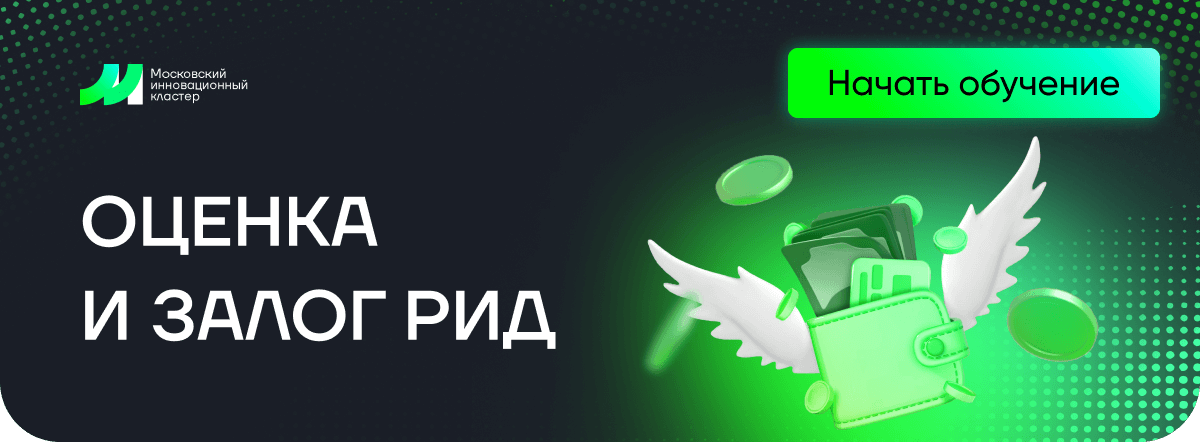
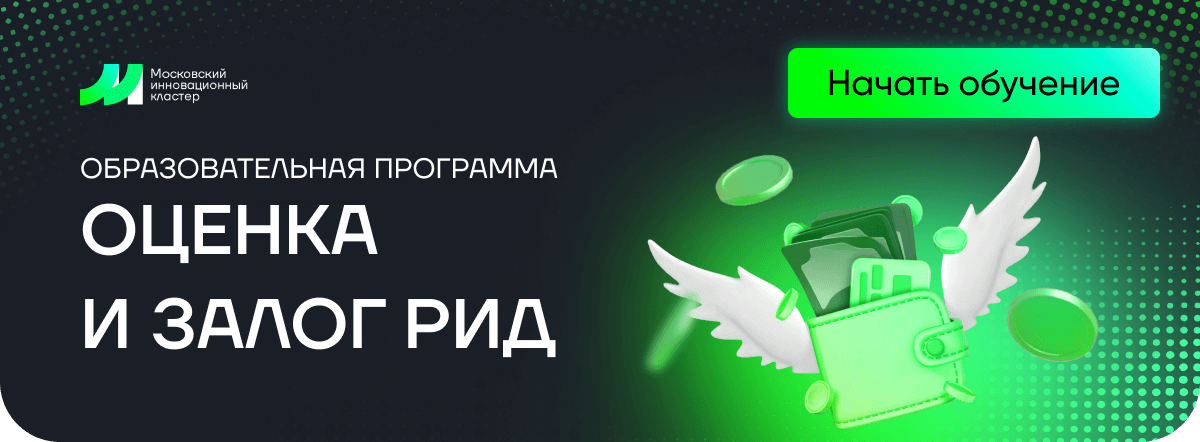
change mik-160

Changed region(s): [[0.0617, 0.6471, 0.4625, 0.8235], [0.0617, 0.4412, 0.3392, 0.5882], [0.0617, 0.3529, 0.4625, 0.4118]]

diff --git a/mik-160/Оценка и залог рид.html b/mik-160/Оценка и залог рид.html
@@ -125,14 +125,14 @@
         <table align="center" border="0" cellpadding="0" cellspacing="0" role="presentation" style="width:100%;box-shadow: 0px 0px 20px 0px rgba(0, 0, 0, 0.05);border-radius:20px;">
             <tbody>
             <tr>
-                <td style="direction:ltr;font-size:0px;padding:16px 16px 9px 21px;">
+                <td style="direction:ltr;font-size:0px;padding:14px 21px 15px;">
                     <!--[if mso | IE]><table role="presentation" border="0" cellpadding="0" cellspacing="0"><tr><td class="" style="vertical-align:top;width:100%;" ><![endif]-->
                     <div class="mj-outlook-group-fix" style="font-size:0px;text-align:left;direction:ltr;display:inline-block;vertical-align:top;width:100%;">
                         <table border="0" cellpadding="0" cellspacing="0" role="presentation" style="vertical-align:top;" width="100%">
                             <tbody>
                             <tr>
                                 <td align="left" style="font-size:0px;word-break:break-word;">
-                                    <div style="font-family: Gilroy, Helvetica, Arial, sans-serif;font-size:20px;font-weight:400;line-height:24px;text-align:left;color:#000000;">Московский инновационный кластер приглашает на&nbsp;новую образовательную программу по&nbsp;интеллектуальной собственности, предназначенную для экспертов рынка: сотрудников оценочных компаний, кредитных и&nbsp;гарантийных организаций.</div>
+                                    <div style="font-family: Gilroy, Helvetica, Arial, sans-serif;font-size:20px;font-weight:400;line-height:24px;text-align:left;color:#000000;">Московский инновационный кластер приглашает на&nbsp;новую образовательную программу по&nbsp;интеллектуальной собственности для экспертов рынка: сотрудников оценочных компаний, кредитных и&nbsp;гарантийных организаций.</div>
                                 </td>
                             </tr>
                             </tbody>
@@ -370,7 +370,7 @@
             </table>
         </div>
     </div>
-    <!--[if mso | IE]></td></tr></table><table align="center" border="0" cellpadding="0" cellspacing="0" class="" style="width:560px;" width="560" ><tr><td style="line-height:0px;font-size:0px;mso-line-height-rule:exactly;"><v:rect style="width:560px;" xmlns:v="urn:schemas-microsoft-com:vml" fill="true" stroke="false"><v:fill origin="0.5, 0" position="0.5, 0" src="https://cp.unisender.com/ru/user_file?resource=images&user_id=5608985&name=mik-160-bg.png" type="tile" size="1,1" aspect="atleast" /><v:textbox style="mso-fit-shape-to-text:true" inset="0,0,0,0"><![endif]-->
+    <!--[if mso | IE]></v:textbox></v:rect></td></tr></table><table align="center" border="0" cellpadding="0" cellspacing="0" class="" style="width:560px;" width="560" ><tr><td style="line-height:0px;font-size:0px;mso-line-height-rule:exactly;"><v:rect style="width:560px;" xmlns:v="urn:schemas-microsoft-com:vml" fill="true" stroke="false"><v:fill origin="0.5, 0" position="0.5, 0" src="https://cp.unisender.com/ru/user_file?resource=images&user_id=5608985&name=mik-160-bg.png" type="tile" size="1,1" aspect="atleast" /><v:textbox style="mso-fit-shape-to-text:true" inset="0,0,0,0"><![endif]-->
     <div style="background:url(https://cp.unisender.com/ru/user_file?resource=images&user_id=5608985&name=mik-160-bg.png) center top / cover repeat;background-position:center top;background-repeat:repeat;background-size:cover;margin:0px auto;max-width:560px;border-radius:20px;background-color:#1B1F28;margin-bottom:30px;">
         <div style="line-height:0;font-size:0;">
             <table align="center" background="https://cp.unisender.com/ru/user_file?resource=images&user_id=5608985&name=mik-160-bg.png" border="0" cellpadding="0" cellspacing="0" role="presentation" style="background:url(https://cp.unisender.com/ru/user_file?resource=images&user_id=5608985&name=mik-160-bg.png) center top / cover repeat;background-position:center top;background-repeat:repeat;background-size:cover;width:100%;border-radius:20px;background-color:#1B1F28;">
@@ -416,7 +416,7 @@
             </table>
         </div>
     </div>
-    <!--[if mso | IE]></td></tr></table><table align="center" border="0" cellpadding="0" cellspacing="0" class="" style="width:560px;" width="560" ><tr><td style="line-height:0px;font-size:0px;mso-line-height-rule:exactly;"><v:rect style="width:560px;" xmlns:v="urn:schemas-microsoft-com:vml" fill="true" stroke="false"><v:fill origin="0.5, 0" position="0.5, 0" src="https://cp.unisender.com/ru/user_file?resource=images&user_id=5608985&name=mik-160-bg.png" type="tile" size="1,1" aspect="atleast" /><v:textbox style="mso-fit-shape-to-text:true" inset="0,0,0,0"><![endif]-->
+    <!--[if mso | IE]></v:textbox></v:rect></td></tr></table><table align="center" border="0" cellpadding="0" cellspacing="0" class="" style="width:560px;" width="560" ><tr><td style="line-height:0px;font-size:0px;mso-line-height-rule:exactly;"><v:rect style="width:560px;" xmlns:v="urn:schemas-microsoft-com:vml" fill="true" stroke="false"><v:fill origin="0.5, 0" position="0.5, 0" src="https://cp.unisender.com/ru/user_file?resource=images&user_id=5608985&name=mik-160-bg.png" type="tile" size="1,1" aspect="atleast" /><v:textbox style="mso-fit-shape-to-text:true" inset="0,0,0,0"><![endif]-->
     <div style="background:url(https://cp.unisender.com/ru/user_file?resource=images&user_id=5608985&name=mik-160-bg.png) center top / cover repeat;background-position:center top;background-repeat:repeat;background-size:cover;margin:0px auto;max-width:560px;border-radius:20px;background-color:#1B1F28;margin-bottom:30px;">
         <div style="line-height:0;font-size:0;">
             <table align="center" background="https://cp.unisender.com/ru/user_file?resource=images&user_id=5608985&name=mik-160-bg.png" border="0" cellpadding="0" cellspacing="0" role="presentation" style="background:url(https://cp.unisender.com/ru/user_file?resource=images&user_id=5608985&name=mik-160-bg.png) center top / cover repeat;background-position:center top;background-repeat:repeat;background-size:cover;width:100%;border-radius:20px;background-color:#1B1F28;">
@@ -462,7 +462,7 @@
             </table>
         </div>
     </div>
-    <!--[if mso | IE]></td></tr></table><table align="center" border="0" cellpadding="0" cellspacing="0" class="" style="width:560px;" width="560" ><tr><td style="line-height:0px;font-size:0px;mso-line-height-rule:exactly;"><v:rect style="width:560px;" xmlns:v="urn:schemas-microsoft-com:vml" fill="true" stroke="false"><v:fill origin="0.5, 0" position="0.5, 0" src="https://cp.unisender.com/ru/user_file?resource=images&user_id=5608985&name=mik-160-bg.png" type="tile" size="1,1" aspect="atleast" /><v:textbox style="mso-fit-shape-to-text:true" inset="0,0,0,0"><![endif]-->
+    <!--[if mso | IE]></v:textbox></v:rect></td></tr></table><table align="center" border="0" cellpadding="0" cellspacing="0" class="" style="width:560px;" width="560" ><tr><td style="line-height:0px;font-size:0px;mso-line-height-rule:exactly;"><v:rect style="width:560px;" xmlns:v="urn:schemas-microsoft-com:vml" fill="true" stroke="false"><v:fill origin="0.5, 0" position="0.5, 0" src="https://cp.unisender.com/ru/user_file?resource=images&user_id=5608985&name=mik-160-bg.png" type="tile" size="1,1" aspect="atleast" /><v:textbox style="mso-fit-shape-to-text:true" inset="0,0,0,0"><![endif]-->
     <div style="background:url(https://cp.unisender.com/ru/user_file?resource=images&user_id=5608985&name=mik-160-bg.png) center top / cover repeat;background-position:center top;background-repeat:repeat;background-size:cover;margin:0px auto;max-width:560px;border-radius:20px;background-color:#1B1F28;margin-bottom:30px;">
         <div style="line-height:0;font-size:0;">
             <table align="center" background="https://cp.unisender.com/ru/user_file?resource=images&user_id=5608985&name=mik-160-bg.png" border="0" cellpadding="0" cellspacing="0" role="presentation" style="background:url(https://cp.unisender.com/ru/user_file?resource=images&user_id=5608985&name=mik-160-bg.png) center top / cover repeat;background-position:center top;background-repeat:repeat;background-size:cover;width:100%;border-radius:20px;background-color:#1B1F28;">
@@ -508,25 +508,80 @@
             </table>
         </div>
     </div>
-    <!--[if mso | IE]></td></tr></table><table align="center" border="0" cellpadding="0" cellspacing="0" class="" style="width:600px;" width="600" ><tr><td style="line-height:0px;font-size:0px;mso-line-height-rule:exactly;"><v:rect style="width:600px;" xmlns:v="urn:schemas-microsoft-com:vml" fill="true" stroke="false"><v:fill origin="0.5, 0" position="0.5, 0" src="https://cp.unisender.com/ru/user_file?resource=images&user_id=5608985&name=mik-117-bg-2.png" type="tile" size="1,1" aspect="atleast" /><v:textbox style="mso-fit-shape-to-text:true" inset="0,0,0,0"><![endif]-->
-    <div style="background:url(https://cp.unisender.com/ru/user_file?resource=images&user_id=5608985&name=mik-117-bg-2.png) center top / cover repeat;background-position:center top;background-repeat:repeat;background-size:cover;margin:0px auto;max-width:600px;">
+    <!--[if mso | IE]></v:textbox></v:rect></td></tr></table><table align="center" border="0" cellpadding="0" cellspacing="0" class="" style="width:600px;" width="600" ><tr><td style="line-height:0px;font-size:0px;mso-line-height-rule:exactly;"><![endif]-->
+    <div style="margin:0px auto;max-width:600px;">
+        <table align="center" border="0" cellpadding="0" cellspacing="0" role="presentation" style="width:100%;">
+            <tbody>
+            <tr>
+                <td style="direction:ltr;font-size:0px;text-align: center;">
+                    <!--[if mso | IE]><table role="presentation" border="0" cellpadding="0" cellspacing="0"><tr><td class="" style="vertical-align:top;width:600px;" ><![endif]-->
+                    <div class="mj-column-per-100 mj-outlook-group-fix" style="font-size:0px;text-align:left;direction:ltr;display:inline-block;vertical-align:top;width:100%;">
+                        <table border="0" cellpadding="0" cellspacing="0" role="presentation" style="vertical-align:top;" width="100%">
+                            <tbody>
+                            <tr>
+                                <td align="center" vertical-align="middle" style="font-size:0px;word-break:break-word;padding:2px 20px 30px;">
+                                    <table border="0" cellpadding="0" cellspacing="0" role="presentation" style="border-collapse:separate;max-width:292px;width:100%;line-height:100%;">
+                                        <tr>
+                                            <td align="center" bgcolor="#00FB07" role="presentation" style="border:none;border-radius:10px;cursor:auto;height:50px;mso-padding-alt:10px 25px;background: linear-gradient(80deg, #00FB07 34.41%, #00FED9 85.02%, #9FFFF6 103.22%);" valign="middle">
+                                                <a href="https://test.ru" style="display:inline-block;color:#000000;font-family:Gilroy, Helvetica, Arial, sans-serif;font-size:25px;font-weight:500;line-height:30px;margin:0;text-decoration:none;text-transform:none;mso-padding-alt:0px;border-radius:5px;" target="_blank">Зарегистрироваться</a>
+                                            </td>
+                                        </tr>
+                                    </table>
+                                </td>
+                            </tr>
+                            </tbody>
+                        </table>
+                    </div>
+                    <!--[if mso | IE]></td></tr></table><![endif]-->
+                </td>
+            </tr>
+            </tbody>
+        </table>
+    </div>
+    <!--[if mso | IE]></td></tr></table><table align="center" border="0" cellpadding="0" cellspacing="0" class="" style="width:600px;" width="600" ><tr><td style="line-height:0px;font-size:0px;mso-line-height-rule:exactly;"><v:rect style="width:600px;" xmlns:v="urn:schemas-microsoft-com:vml" fill="true" stroke="false"><v:fill origin="0.5, 0" position="0.5, 0" src="https://cp.unisender.com/ru/user_file?resource=images&user_id=5608985&name=mik-160-bg-2.png" type="tile" size="1,1" aspect="atleast" /><v:textbox style="mso-fit-shape-to-text:true" inset="0,0,0,0"><![endif]-->
+    <div style="background:url(https://cp.unisender.com/ru/user_file?resource=images&user_id=5608985&name=mik-160-bg-2.png) center top / cover repeat;background-position:center top;background-repeat:repeat;background-size:cover;margin:0px auto;max-width:600px;background-color:#1b1f28;">
         <div style="line-height:0;font-size:0;">
-            <table align="center" background="https://cp.unisender.com/ru/user_file?resource=images&user_id=5608985&name=mik-117-bg-2.png" border="0" cellpadding="0" cellspacing="0" role="presentation" style="background:url(https://cp.unisender.com/ru/user_file?resource=images&user_id=5608985&name=mik-117-bg-2.png) center top / cover repeat;background-position:center top;background-repeat:repeat;background-size:cover;width:100%;">
+            <table align="center" background="https://cp.unisender.com/ru/user_file?resource=images&user_id=5608985&name=mik-160-bg-2.png" border="0" cellpadding="0" cellspacing="0" role="presentation" style="background:url(https://cp.unisender.com/ru/user_file?resource=images&user_id=5608985&name=mik-160-bg-2.png) center top / cover repeat;background-position:center top;background-repeat:repeat;background-size:cover;width:100%;background-color:#1b1f28;">
                 <tbody>
                 <tr>
-                    <td style="direction:ltr;font-size:0px;padding:0;text-align:center;">
-                        <!--[if mso | IE]><table role="presentation" border="0" cellpadding="0" cellspacing="0"><tr><td class="" style="vertical-align:top;width:600px;" ><![endif]-->
-                        <div class="mj-column-per-100 mj-outlook-group-fix" style="font-size:0px;text-align:left;direction:ltr;display:inline-block;vertical-align:top;width:100%;">
+                    <td style="direction:ltr;font-size:0px;padding:0px 24px 32px 40px;">
+                        <!--[if mso | IE]><table role="presentation" border="0" cellpadding="0" cellspacing="0"><tr><td class="" style="vertical-align:top;max-width:370px;width:100%;" ><![endif]-->
+                        <div class="mj-outlook-group-fix" style="font-size:0px;text-align:left;direction:ltr;display:inline-block;vertical-align:top;max-width:370px;width:100%;">
                             <table border="0" cellpadding="0" cellspacing="0" role="presentation" style="vertical-align:top;" width="100%">
                                 <tbody>
                                 <tr>
-                                    <td align="center" vertical-align="middle" style="font-size:0px;word-break:break-word;padding:55px 0;">
-                                        <table border="0" cellpadding="0" cellspacing="0" role="presentation" style="border-collapse:separate;max-width:292px;width:100%;line-height:100%;">
+                                    <td align="left" style="font-size:0px;word-break:break-word;padding:30px 0 24px;">
+                                        <div style="font-family:Gilroy, Helvetica, Arial, sans-serif;font-size:16px;font-weight:400;line-height:19.6px;text-align:left;color:#FFFFFF;">ХОТИТЕ ЗНАТЬ БОЛЬШЕ ОБ&nbsp;ИНТЕЛЛЕКТУАЛЬНОЙ СОБСТВЕННОСТИ, ПОЛУЧАТЬ ЦЕННЫЕ СОВЕТЫ И&nbsp;РАЗБИРАТЬ АКТУАЛЬНЫЕ КЕЙСЫ? ТОГДА ПОДПИСЫВАЙТЕСЬ НА&nbsp;НАШ ПРОФИЛЬНЫЙ ТЕЛЕГРАМ-КАНАЛ</div>
+                                    </td>
+                                </tr>
+                                <tr>
+                                    <td vertical-align="middle" style="font-size:0px;word-break:break-word;">
+                                        <table border="0" cellpadding="0" cellspacing="0" role="presentation" style="border-collapse:separate;max-width:286px;width:100%;line-height:100%;">
                                             <tr>
-                                                <td align="center" bgcolor="linear-gradient(80deg, #00FB07 34.41%, #00FED9 85.02%, #9FFFF6 103.22%)" role="presentation" style="border:none;border-radius:10px;cursor:auto;height:50px;mso-padding-alt:10px 25px;background:linear-gradient(80deg, #00FB07 34.41%, #00FED9 85.02%, #9FFFF6 103.22%);" valign="middle">
-                                                    <a href="https://test.ru" style="display:inline-block;color:#000000;font-family: Gilroy, Helvetica, Arial, sans-serif;font-size:25px;font-weight:500;line-height:30px;margin:0;text-decoration:none;text-transform:none;mso-padding-alt:0px;border-radius:5px;" target="_blank">Зарегистрироваться</a>
+                                                <td align="center" bgcolor="#00FB07" role="presentation" style="border:none;border-radius:10px;cursor:auto;height:50px;mso-padding-alt:10px 25px;background: linear-gradient(80deg, #00FB07 34.41%, #00FED9 85.02%, #9FFFF6 103.22%);" valign="middle">
+                                                    <a href="https://t.me/+rD0vl7L2Fc0yZTMy/" style="display:inline-block;color:#000000;font-family:Gilroy, Helvetica, Arial, sans-serif;font-size:25px;font-weight:500;line-height:30px;margin:0;text-decoration:none;text-transform:none;mso-padding-alt:0px;" target="_blank">Подписаться</a>
                                                 </td>
                                             </tr>
+                                        </table>
+                                    </td>
+                                </tr>
+                                </tbody>
+                            </table>
+                        </div>
+                        <!--[if mso | IE]></td><td class="" style="vertical-align:top;" ><![endif]-->
+                        <div class="mj-outlook-group-fix" style="font-size:0px;text-align:left;direction:ltr;display:inline-block;vertical-align:top;">
+                            <table border="0" cellpadding="0" cellspacing="0" role="presentation" style="vertical-align:top;" width="100%">
+                                <tbody>
+                                <tr>
+                                    <td style="font-size:0px;word-break:break-word;">
+                                        <table border="0" cellpadding="0" cellspacing="0" role="presentation" style="border-collapse:collapse;border-spacing:0px;">
+                                            <tbody>
+                                            <tr>
+                                                <td style="width:165px;padding-top:69px;">
+                                                    <img alt="Декоративная картинка" height="auto" src="https://cp.unisender.com/ru/user_file?resource=images&user_id=5608985&name=mik-160-content-img-3.png" style="border:0;display:block;outline:none;text-decoration:none;height:auto;width:100%;font-size:13px;color:#FFFFFF;" width="165" />
+                                                </td>
+                                            </tr>
+                                            </tbody>
                                         </table>
                                     </td>
                                 </tr>
@@ -542,116 +597,28 @@
     </div>
     <!--[if mso | IE]></v:textbox></v:rect></td></tr></table><table align="center" border="0" cellpadding="0" cellspacing="0" class="" style="width:600px;" width="600" bgcolor="#383B4A" ><tr><td style="line-height:0px;font-size:0px;mso-line-height-rule:exactly;"><![endif]-->
     <div style="background:#383B4A;background-color:#383B4A;margin:0px auto;max-width:600px;">
-        <table align="center" border="0" cellpadding="0" cellspacing="0" role="presentation" style="background:#383B4A;background-color:#383B4A;width:100%;border-top-left-radius:30px;border-top-right-radius:30px;">
+        <table align="center" border="0" cellpadding="0" cellspacing="0" role="presentation" style="background:#383B4A;background-color:#383B4A;width:100%;">
             <tbody>
             <tr>
-                <td style="direction:ltr;font-size:0px;padding:0px 57px 30px;">
-                    <!--[if mso | IE]><table role="presentation" border="0" cellpadding="0" cellspacing="0"><tr><td class="" style="vertical-align:top;max-width:282px;width:100%;" ><![endif]-->
-                    <div class="mj-outlook-group-fix" style="font-size:0px;text-align:left;direction:ltr;display:inline-block;vertical-align:top;max-width:282px;width:100%;">
+                <td style="direction:ltr;font-size:0px;padding:33px 33px 12px 49px;">
+                    <!--[if mso | IE]><table role="presentation" border="0" cellpadding="0" cellspacing="0"><tr><td class="" style="vertical-align:top;width:156px;" ><![endif]-->
+                    <div class="mj-outlook-group-fix" style="font-size:0px;text-align:left;direction:ltr;display:inline-block;vertical-align:top;width:156px;">
                         <table border="0" cellpadding="0" cellspacing="0" role="presentation" style="vertical-align:top;" width="100%">
                             <tbody>
                             <tr>
-                                <td style="direction:ltr;font-size:0px;padding-top:35px;">
-                                    <div class="mj-outlook-group-fix" style="font-size:0px;text-align:left;direction:ltr;display:inline-block;vertical-align:top;width:101px;">
-                                        <table border="0" cellpadding="0" cellspacing="0" role="presentation" style="vertical-align:top;" width="100%">
-                                            <tbody>
-                                            <tr>
-                                                <td style="font-size:0px;word-break:break-word;">
-                                                    <table border="0" cellpadding="0" cellspacing="0" role="presentation" style="border-collapse:collapse;border-spacing:0px;">
-                                                        <tbody>
-                                                        <tr>
-                                                            <td style="width:46px;">
-                                                                <a href="https://t.me/+812R6hgmWatmYzAy" target="_blank">
-                                                                    <img height="auto" src="https://cp.unisender.com/ru/user_file?resource=images&amp;user_id=5608985&amp;name=mik-tg-icon-new.png" style="border:0;display:block;outline:none;text-decoration:none;height:auto;width:100%;font-size:13px;" width="58">
-                                                                </a>
-                                                            </td>
-                                                        </tr>
-                                                        </tbody>
-                                                    </table>
-                                                </td>
-                                            </tr>
-                                            </tbody>
-                                        </table>
-                                    </div>
-                                    <div class="mj-outlook-group-fix" style="font-size:0px;text-align:left;direction:ltr;display:inline-block;vertical-align:top;">
-                                        <table border="0" cellpadding="0" cellspacing="0" role="presentation" style="vertical-align:top;" width="100%">
-                                            <tbody>
-                                            <tr>
-                                                <td style="font-size:0px;word-break:break-word;">
-                                                    <table border="0" cellpadding="0" cellspacing="0" role="presentation" style="border-collapse:collapse;border-spacing:0px;">
-                                                        <tbody>
-                                                        <tr>
-                                                            <td style="width:56px;">
-                                                                <a href="https://vk.com/innocluster" target="_blank">
-                                                                    <img height="auto" src="https://cp.unisender.com/ru/user_file?resource=images&amp;user_id=5608985&amp;name=mik-vk-icon-new.png" style="border:0;display:block;outline:none;text-decoration:none;height:auto;width:100%;font-size:13px;" width="58">
-                                                                </a>
-                                                            </td>
-                                                        </tr>
-                                                        </tbody>
-                                                    </table>
-                                                </td>
-                                            </tr>
-                                            </tbody>
-                                        </table>
-                                    </div>
+                                <td align="left" style="font-size:0px;word-break:break-word;padding-bottom:20px;">
+                                    <div style="font-family:Gilroy, Helvetica, Arial, sans-serif;font-size:13px;font-weight:300;line-height:15.6px;text-align:left;color:#FAFAFA;">Остались вопросы?<br />Пишите на&nbsp;почту</div>
                                 </td>
                             </tr>
                             </tbody>
                         </table>
                     </div>
-                    <!--[if mso | IE]></td><td class="" style="vertical-align:top;" ><![endif]-->
-                    <div class="mj-outlook-group-fix" style="font-size:0px;text-align:left;direction:ltr;display:inline-block;vertical-align:top;">
+                    <!--[if mso | IE]></td><td class="" style="vertical-align:top;width:196px;" ><![endif]-->
+                    <div class="mj-outlook-group-fix" style="font-size:0px;text-align:left;direction:ltr;display:inline-block;vertical-align:top;width:196px;">
                         <table border="0" cellpadding="0" cellspacing="0" role="presentation" style="vertical-align:top;" width="100%">
                             <tbody>
                             <tr>
-                                <td align="left" style="font-size:0px;word-break:break-word;padding-top:29px;">
-                                    <div style="font-family: Gilroy, Helvetica, Arial, sans-serif;font-size:13px;font-weight:300;line-height:120%;text-align:left;color:#FAFAFA;">Остались вопросы?<br />Пишите на&nbsp;почту</div>
-                                </td>
-                            </tr>
-                            <tr>
-                                <td style="direction:ltr;font-size:0px;padding-top:21px;">
-                                    <div class="mj-outlook-group-fix" style="font-size:0px;text-align:left;direction:ltr;display:inline-block;vertical-align:top;width:36px;">
-                                        <table border="0" cellpadding="0" cellspacing="0" role="presentation" style="vertical-align:top;" width="100%">
-                                            <tbody>
-                                            <tr>
-                                                <td style="font-size:0px;word-break:break-word;padding-top:4px;">
-                                                    <table border="0" cellpadding="0" cellspacing="0" role="presentation" style="border-collapse:collapse;border-spacing:0px;">
-                                                        <tbody>
-                                                        <tr>
-                                                            <td style="width:20px;">
-                                                                <img height="auto" src="https://cp.unisender.com/ru/user_file?resource=images&amp;user_id=5608985&amp;name=mik-footer-email-icon.png" style="border:0;display:block;outline:none;text-decoration:none;height:auto;width:100%;font-size:13px;" width="20">
-                                                            </td>
-                                                        </tr>
-                                                        </tbody>
-                                                    </table>
-                                                </td>
-                                            </tr>
-                                            </tbody>
-                                        </table>
-                                    </div>
-                                    <div class="mj-outlook-group-fix" style="font-size:0px;text-align:left;direction:ltr;display:inline-block;vertical-align:top;">
-                                        <table border="0" cellpadding="0" cellspacing="0" role="presentation" style="vertical-align:top;" width="100%">
-                                            <tbody>
-                                            <tr>
-                                                <td style="font-size:0px;word-break:break-word;">
-                                                    <table border="0" cellpadding="0" cellspacing="0" role="presentation" style="border-collapse:collapse;border-spacing:0px;">
-                                                        <tbody>
-                                                        <tr>
-                                                            <td align="left" style="font-size:0px;word-break:break-word;">
-                                                                <div style="font-family: Gilroy, Helvetica, Arial, sans-serif;font-size:15px;font-weight:400;line-height:120%;text-align:left;color:#FFFFFF;"><a href="mailto:support@i.moscow" style="color:#FFFFFF;text-decoration:none">support@i.moscow</a></div>
-                                                            </td>
-                                                        </tr>
-                                                        </tbody>
-                                                    </table>
-                                                </td>
-                                            </tr>
-                                            </tbody>
-                                        </table>
-                                    </div>
-                                </td>
-                            </tr>
-                            <tr>
-                                <td style="direction:ltr;font-size:0px;padding-top:13px;">
+                                <td style="direction:ltr;font-size:0px;padding-top:8px;">
                                     <div class="mj-outlook-group-fix" style="font-size:0px;text-align:left;direction:ltr;display:inline-block;vertical-align:top;width:36px;">
                                         <table border="0" cellpadding="0" cellspacing="0" role="presentation" style="vertical-align:top;" width="100%">
                                             <tbody>
@@ -681,6 +648,55 @@
                                                         <tr>
                                                             <td align="left" style="font-size:0px;word-break:break-word;">
                                                                 <div style="font-family: Gilroy, Helvetica, Arial, sans-serif;font-size:15px;font-weight:400;line-height:120%;text-align:left;color:#FFFFFF;"><a href="tel:+74958704555" style="color:#FFFFFF;text-decoration:none">8-495-870-45-55</a></div>
+                                                            </td>
+                                                        </tr>
+                                                        </tbody>
+                                                    </table>
+                                                </td>
+                                            </tr>
+                                            </tbody>
+                                        </table>
+                                    </div>
+                                </td>
+                            </tr>
+                            </tbody>
+                        </table>
+                    </div>
+                    <!--[if mso | IE]></td><td class="" style="vertical-align:top;width:166px;" ><![endif]-->
+                    <div class="mj-outlook-group-fix" style="font-size:0px;text-align:left;direction:ltr;display:inline-block;vertical-align:top;width:166px;">
+                        <table border="0" cellpadding="0" cellspacing="0" role="presentation" style="vertical-align:top;" width="100%">
+                            <tbody>
+                            <tr>
+                                <td style="direction:ltr;font-size:0px;padding-top:7px;padding-bottom:20px;">
+                                    <div class="mj-outlook-group-fix" style="font-size:0px;text-align:left;direction:ltr;display:inline-block;vertical-align:top;width:36px;">
+                                        <table border="0" cellpadding="0" cellspacing="0" role="presentation" style="vertical-align:top;" width="100%">
+                                            <tbody>
+                                            <tr>
+                                                <td style="font-size:0px;word-break:break-word;padding-top:4px;">
+                                                    <table border="0" cellpadding="0" cellspacing="0" role="presentation" style="border-collapse:collapse;border-spacing:0px;">
+                                                        <tbody>
+                                                        <tr>
+                                                            <td style="width:20px;">
+                                                                <img height="auto" src="https://cp.unisender.com/ru/user_file?resource=images&amp;user_id=5608985&amp;name=mik-footer-email-icon.png" style="border:0;display:block;outline:none;text-decoration:none;height:auto;width:100%;font-size:13px;" width="20">
+                                                            </td>
+                                                        </tr>
+                                                        </tbody>
+                                                    </table>
+                                                </td>
+                                            </tr>
+                                            </tbody>
+                                        </table>
+                                    </div>
+                                    <div class="mj-outlook-group-fix" style="font-size:0px;text-align:left;direction:ltr;display:inline-block;vertical-align:top;">
+                                        <table border="0" cellpadding="0" cellspacing="0" role="presentation" style="vertical-align:top;" width="100%">
+                                            <tbody>
+                                            <tr>
+                                                <td style="font-size:0px;word-break:break-word;">
+                                                    <table border="0" cellpadding="0" cellspacing="0" role="presentation" style="border-collapse:collapse;border-spacing:0px;">
+                                                        <tbody>
+                                                        <tr>
+                                                            <td align="left" style="font-size:0px;word-break:break-word;">
+                                                                <div style="font-family: Gilroy, Helvetica, Arial, sans-serif;font-size:15px;font-weight:400;line-height:120%;text-align:left;color:#FFFFFF;"><a href="mailto:support@i.moscow" style="color:#FFFFFF;text-decoration:none">support@i.moscow</a></div>
                                                             </td>
                                                         </tr>
                                                         </tbody>
